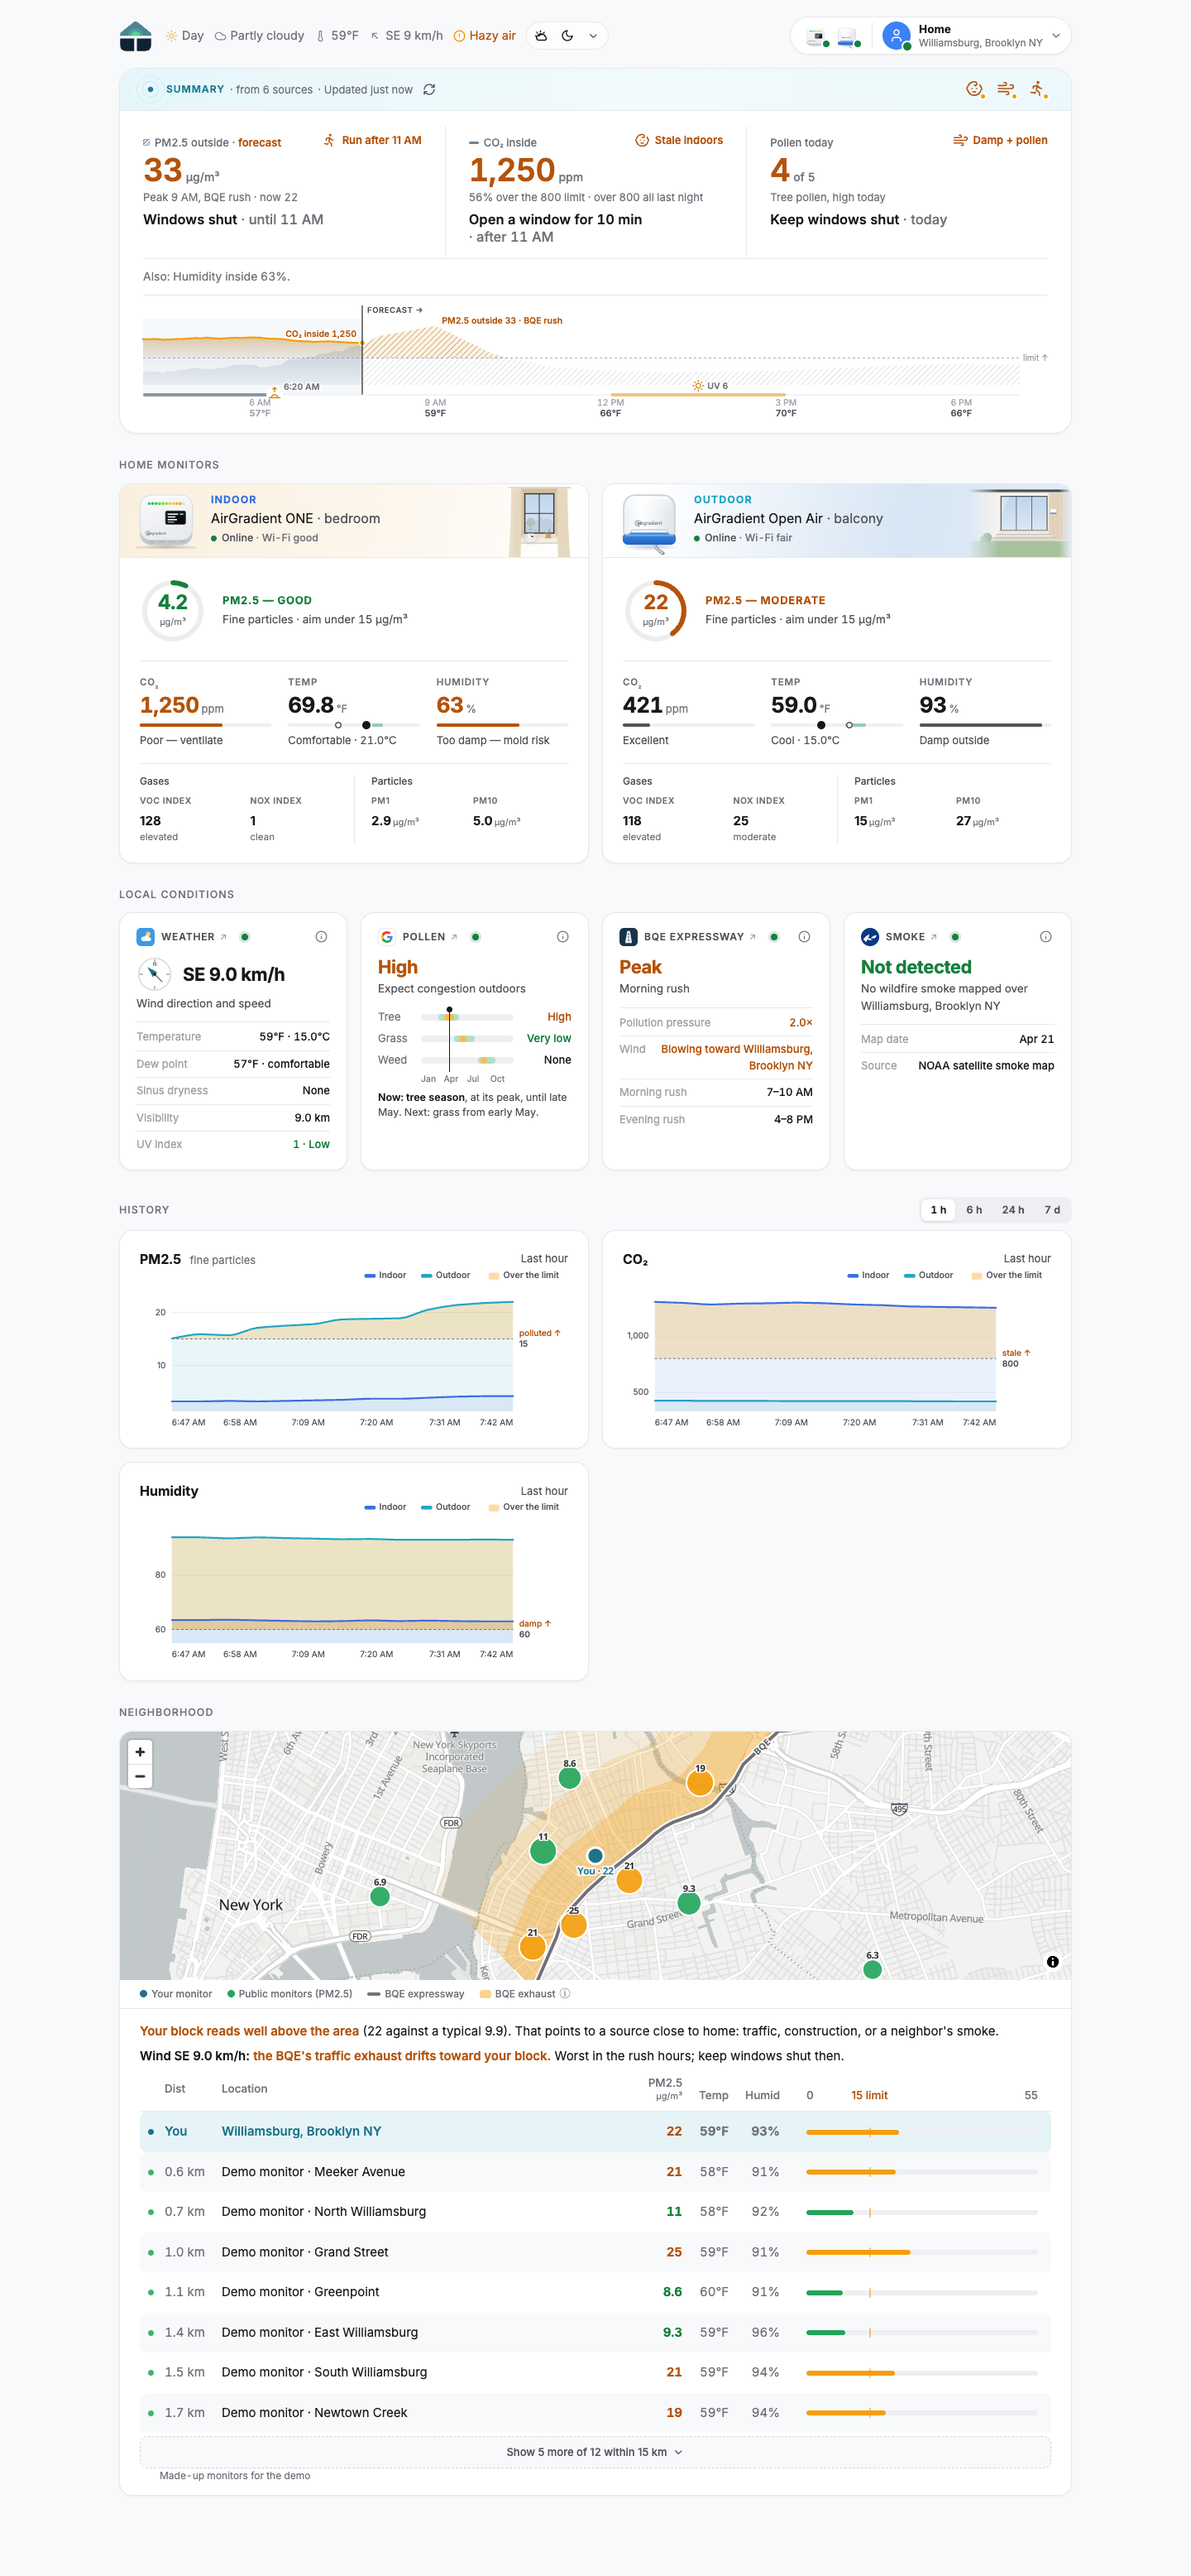
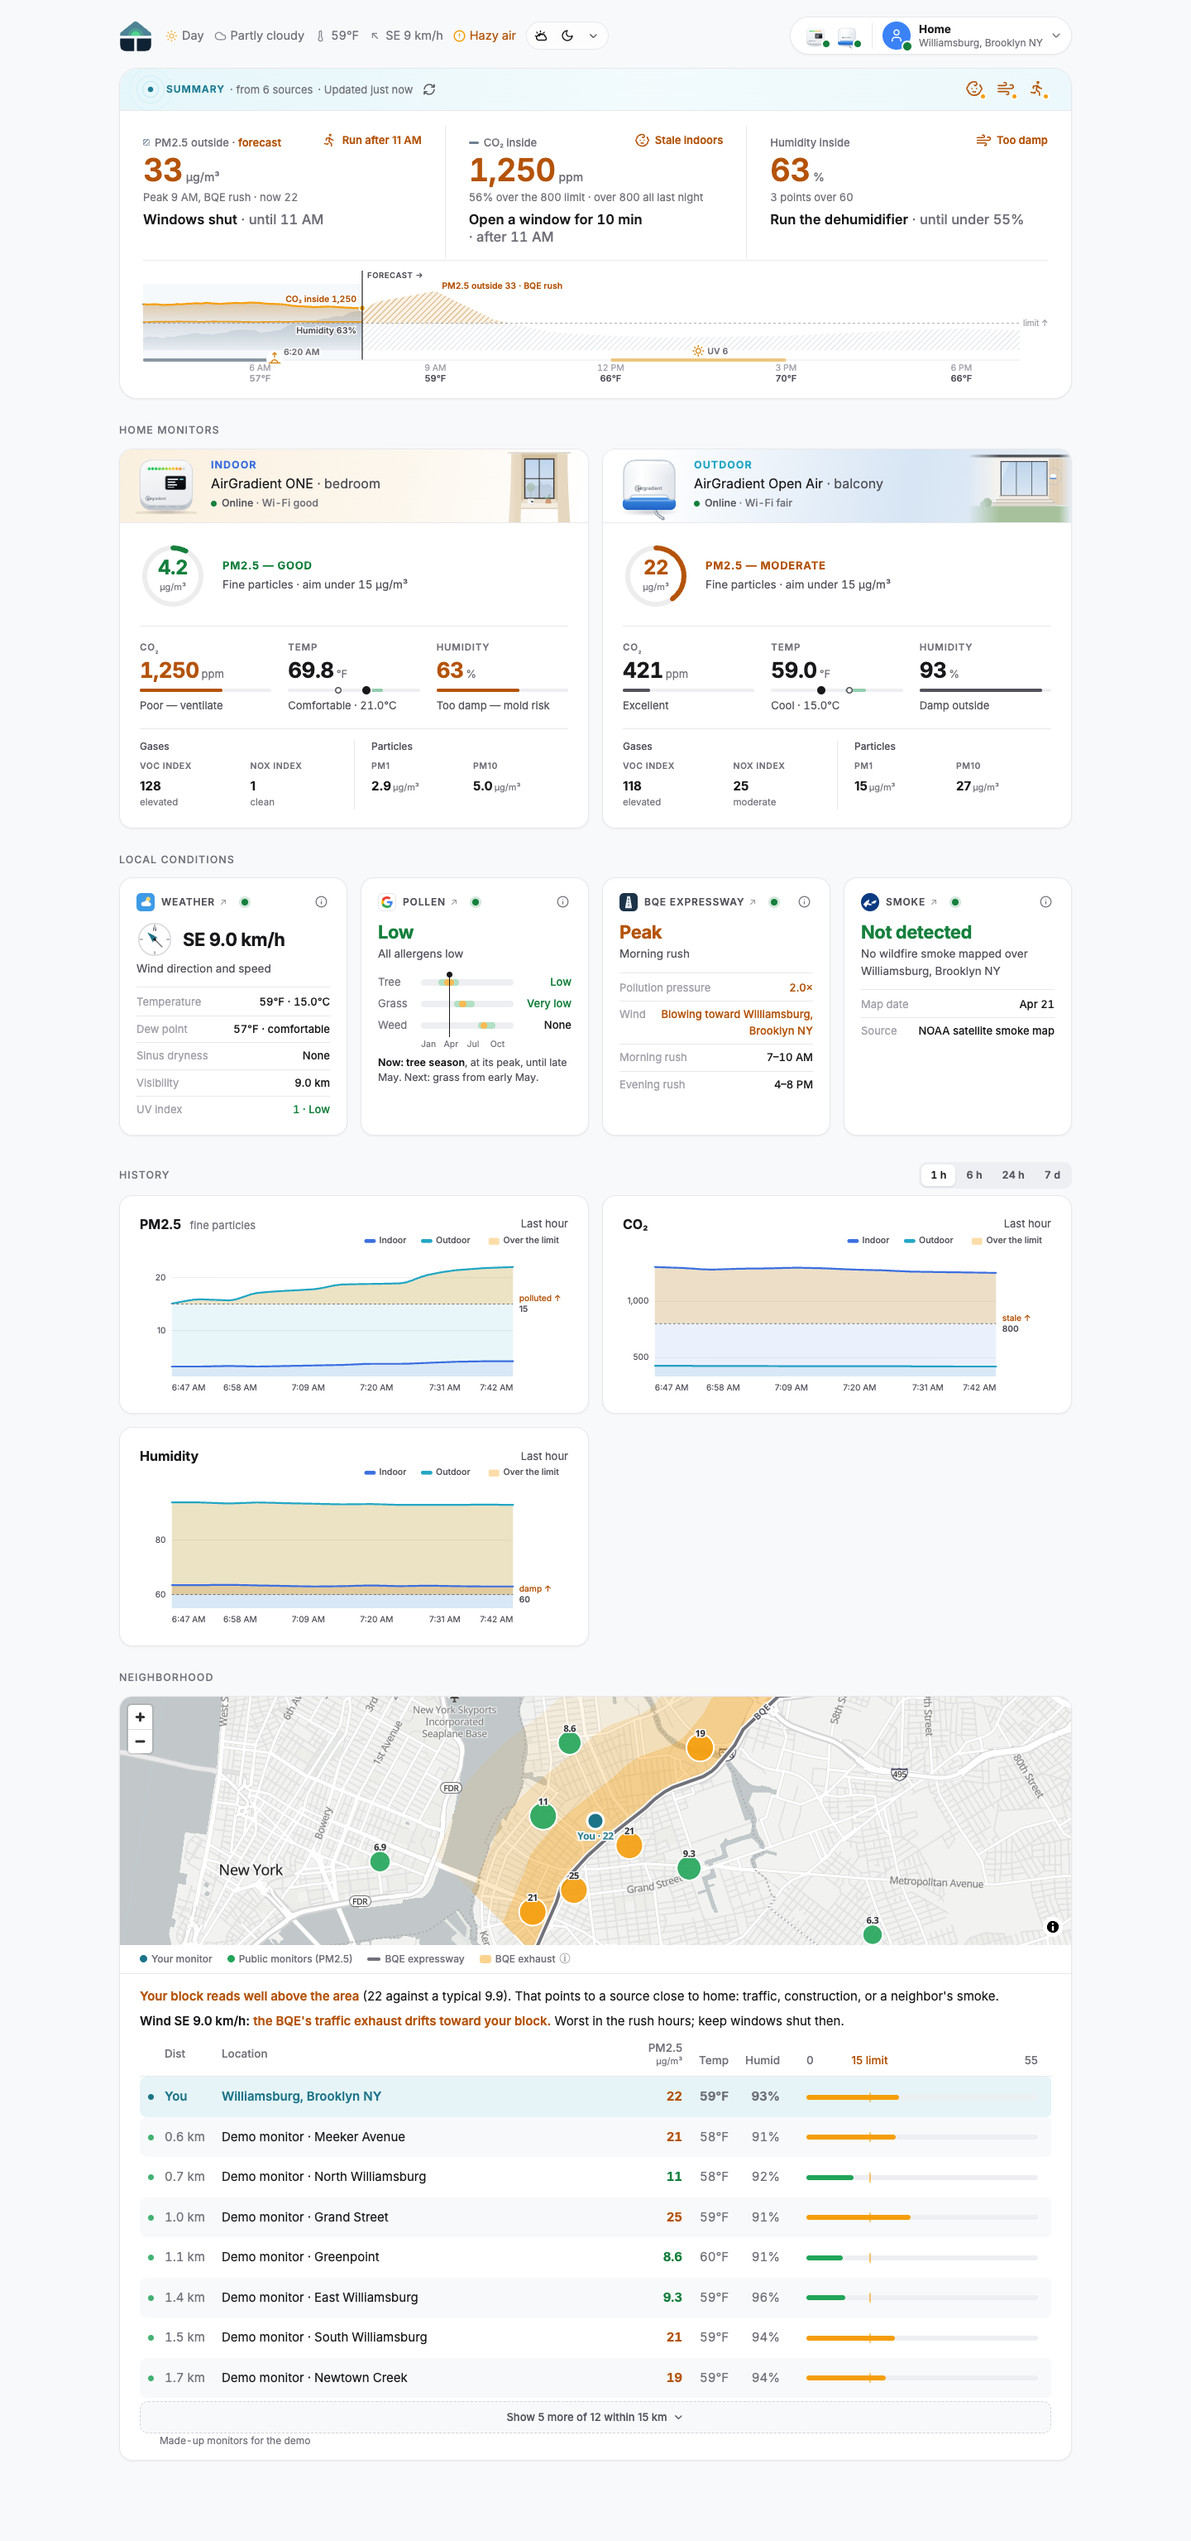
README hero: the morning rush shows one timeline and a dehumidifier, not a contradiction
Tree pollen that morning is 2 of 5, so the three cards are: windows shut until 11 AM,
open a window after 11 AM, run the dehumidifier. The one-monitor cases keep their
high-pollen day, now read from their own moment. The phone sits lower in the hero, under
the Summary's actions, so every action shows whole.

diff --git a/scripts/hero.html b/scripts/hero.html
@@ -87,7 +87,7 @@
   const desk = document.getElementById('desk'), phone = document.getElementById('phone');
   desk.src = q.get('desk') || ''; phone.src = q.get('phone') || '';
   const PAST_RIGHT = 150;   // px the phone's right edge sits past the panel's: enough to read as in front, not beside
-  const BELOW = 52;         // px the phone's bottom sits below the panel's, so it overlaps the corner
+  const BELOW = 200;        // px the phone's bottom sits below the panel's: it overlaps the corner, under the Summary's actions
   const PAD = 100;          // px of room right of the phone, more than its shadow reaches (the edges must stay transparent)
   const PAD_BOTTOM = 150;   // px of room below the phone, where its shadow falls furthest
   // place the phone once the panel's height (the desktop capture's) is known, then size the stage around both

diff --git a/demo/moments.py b/demo/moments.py
@@ -68,7 +68,7 @@ MOMENTS = {
         pm_out=22, pm_base=7, pm_rush_max=19,
         wind_dir=135, wind_speed=9, cloud=55, weather_code=2, visibility=9000, uv_max=6.5,
         sun=(("06:15", "19:39"), ("06:13", "19:40")),
-        pollen_today=(4, 1, 0), pollen_tomorrow=(3, 1, 0), pollen_in_season=(True, True, False),
+        pollen_today=(2, 1, 0), pollen_tomorrow=(2, 1, 0), pollen_in_season=(True, True, False),
         nearby_road=26,
         # the rush: 22 now, 33 at 9, back under 15 by 11; the evening rush stays under the line
         story={"pm_out": ((5, 8), (6, 11), (7, 16), (7.75, 22), (8, 27), (9, 33), (10, 17), (11, 10), (12, 8),
@@ -109,17 +109,18 @@ MOMENTS = {
 
 SAMPLES = ("rush", "clear", "humid")   # ?sample=1, 2, 3: the top area's "Sample 1 2 3"
 
+RUSH_POLLEN, RUSH_POLLEN_TOMORROW = (4, 1, 0), (3, 1, 0)   # the one-monitor cases keep a high-pollen day: their sinus story
 SOURCE_MONITOR_ID = 900001   # indoor-near's public monitor: made up, no real AirGradient monitor has this id
 
 # Homes with one monitor, reachable only by address (?moment=), not in the top area: the morning rush's readings, seen
 # from an indoor-only home that reads a public monitor 1.1 km away (indoor-near) or the model alone (indoor-model),
 # and from an outdoor-only home (outdoor-only). tests/test_demo.py pins what each says.
 HIDDEN = {
-    "indoor-near": replace(MOMENTS["rush"], key="indoor-near", label="Indoor monitor, public monitor nearby",
+    "indoor-near": replace(MOMENTS["rush"], pollen_today=RUSH_POLLEN, pollen_tomorrow=RUSH_POLLEN_TOMORROW, key="indoor-near", label="Indoor monitor, public monitor nearby",
                            outdoor_from=SOURCE_MONITOR_ID, data="rush"),
-    "indoor-model": replace(MOMENTS["rush"], key="indoor-model", label="Indoor monitor, the model outside",
+    "indoor-model": replace(MOMENTS["rush"], pollen_today=RUSH_POLLEN, pollen_tomorrow=RUSH_POLLEN_TOMORROW, key="indoor-model", label="Indoor monitor, the model outside",
                             outdoor_from="model", data="rush"),
-    "outdoor-only": replace(MOMENTS["rush"], key="outdoor-only", label="Outdoor monitor only", indoor=False, data="rush"),
+    "outdoor-only": replace(MOMENTS["rush"], pollen_today=RUSH_POLLEN, pollen_tomorrow=RUSH_POLLEN_TOMORROW, key="outdoor-only", label="Outdoor monitor only", indoor=False, data="rush"),
 }
 
 

diff --git a/tests/test_demo.py b/tests/test_demo.py
@@ -95,9 +95,10 @@ def test_rush_story(c):
     r = read(c, "rush")
     s = r["summary"]
     items = {i["id"]: i for i in s["items"]}
-    # three items at most: PM2.5, CO₂ and pollen lead; humidity (63%) is the Also line
-    assert set(items) == {"pm", "co2", "pollen"}
-    assert "Humidity inside 63%" in s["also"]
+    # three items: PM2.5 and CO₂ make one timeline (shut during the rush, air after it), humidity a dehumidifier;
+    # pollen is moderate (2 of 5), under the line, so no window card contradicts the airing
+    assert set(items) == {"pm", "co2", "rh"}
+    assert items["rh"]["num"] == "63" and items["rh"]["action"]["text"] == "Run the dehumidifier"
     # the tension: stale inside, dirty outside, so air out after the rush
     co2 = items["co2"]
     assert co2["action"]["text"] == "Open a window for 10 min"
@@ -109,16 +110,13 @@ def test_rush_story(c):
     assert pm["forecast"] is True and pm["facts"]["cause"] == "BQE rush" and pm["facts"]["pm_now"] == 22
     assert 30 <= int(pm["num"]) <= 35
     assert pm["action"]["when"] == "until 11 AM"
-    assert items["pollen"]["num"] == "4" and items["pollen"]["facts"]["pollen_type"] == "tree"
-    # the CO₂ airing wins over pollen, and the pollen card says so: never "open a window" beside "keep windows shut"
-    assert items["pollen"]["action"]["text"] == "Keep windows shut except a short airing for CO₂"
     profiles = profiles_of(s)
     # the runner: run after the dirty stretch ends, at the same 11 AM the windows wait for
     assert profiles["runner"]["ok"] is False and profiles["runner"]["state"] == "Run after 11 AM"
     # the toddler: stale now, after a stale night that peaked about 1,400
     assert profiles["toddler"]["ok"] is False and profiles["toddler"]["state"] == "Stale indoors"
     assert 1350 <= profiles["toddler"]["facts"]["night_peak"] <= 1450 and "last night" in profiles["toddler"]["why"].lower()
-    assert profiles["sinus"]["state"] == "Damp + pollen"
+    assert profiles["sinus"]["state"] == "Too damp"
     ctx = c.get("/api/context?moment=rush").get_json()
     assert ctx["road"] == {"name": "BQE", "toward": True}
     assert ctx["status"] == {"pollen": "ok", "smoke": "ok", "road": "ok", "nearby": "ok"}

diff --git a/tests/test_public_monitor.py b/tests/test_public_monitor.py
@@ -399,12 +399,12 @@ def _h(obj):
 
 
 # The default sample's answers before public monitors existed (sha256 of the sorted JSON, first 16 hex digits;
-# the page is checked in test_demo.py).
+# the page is checked in test_demo.py). The rush context changed on 24 Nov: tree pollen 2 of 5, for the README's example.
 SAMPLE_BEFORE = {
-    "/api/current": "150a35e45008fe0c", "/api/context": "d70ffdedee6eab84",
+    "/api/current": "150a35e45008fe0c", "/api/context": "9b19ec4b621b11c1",
     "/api/neighborhood": "8088a41040dae5c0",
     "/api/current?moment=rush": "150a35e45008fe0c",
-    "/api/context?moment=rush": "d70ffdedee6eab84", "/api/neighborhood?moment=rush": "8088a41040dae5c0",
+    "/api/context?moment=rush": "9b19ec4b621b11c1", "/api/neighborhood?moment=rush": "8088a41040dae5c0",
     "/api/current?moment=clear": "fd99c0e8c62db6c8",
     "/api/context?moment=clear": "1e5434ff04926b83", "/api/neighborhood?moment=clear": "557e170a3a50a6f8",
     "/api/current?moment=humid": "3f99cb689a5ca5ca",

diff --git a/demo/data.py b/demo/data.py
@@ -571,8 +571,8 @@ def install(server, moment_for_request):
     sources.get_air_forecast = air_model
     sources.smoke_status = smoke_status
     sources.get_smoke_data = lambda *a, **k: smoke_status()["detected"]
-    sources.get_pollen_days = lambda *a, **k: pollen_days(key()) if which() == "sample" else {"today": [], "tomorrow": []}
-    sources.get_pollen_data = lambda *a, **k: pollen_days(key())["today"] if which() == "sample" else []
+    sources.get_pollen_days = lambda *a, **k: pollen_days(moment_for_request().key) if which() == "sample" else {"today": [], "tomorrow": []}
+    sources.get_pollen_data = lambda *a, **k: pollen_days(moment_for_request().key)["today"] if which() == "sample" else []
     sources.source_on = source_on
     sources.pollen_state = lambda: "ok" if sources.source_on("pollen") else "off"   # made up, so no key to miss
     sources.history_points = points
